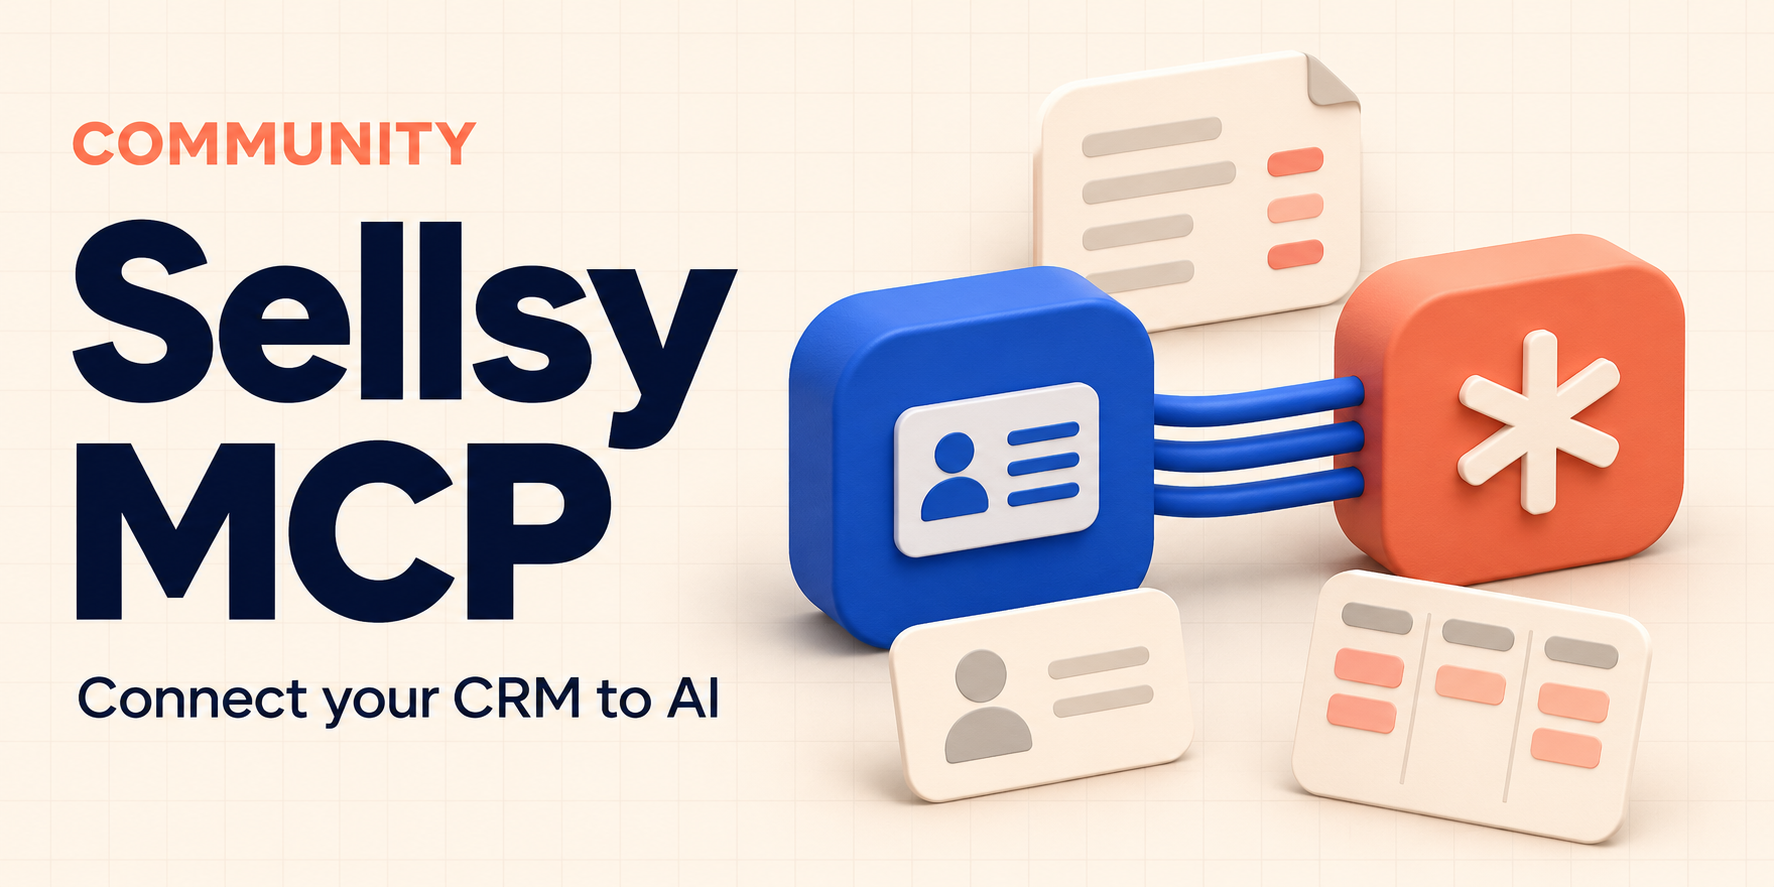
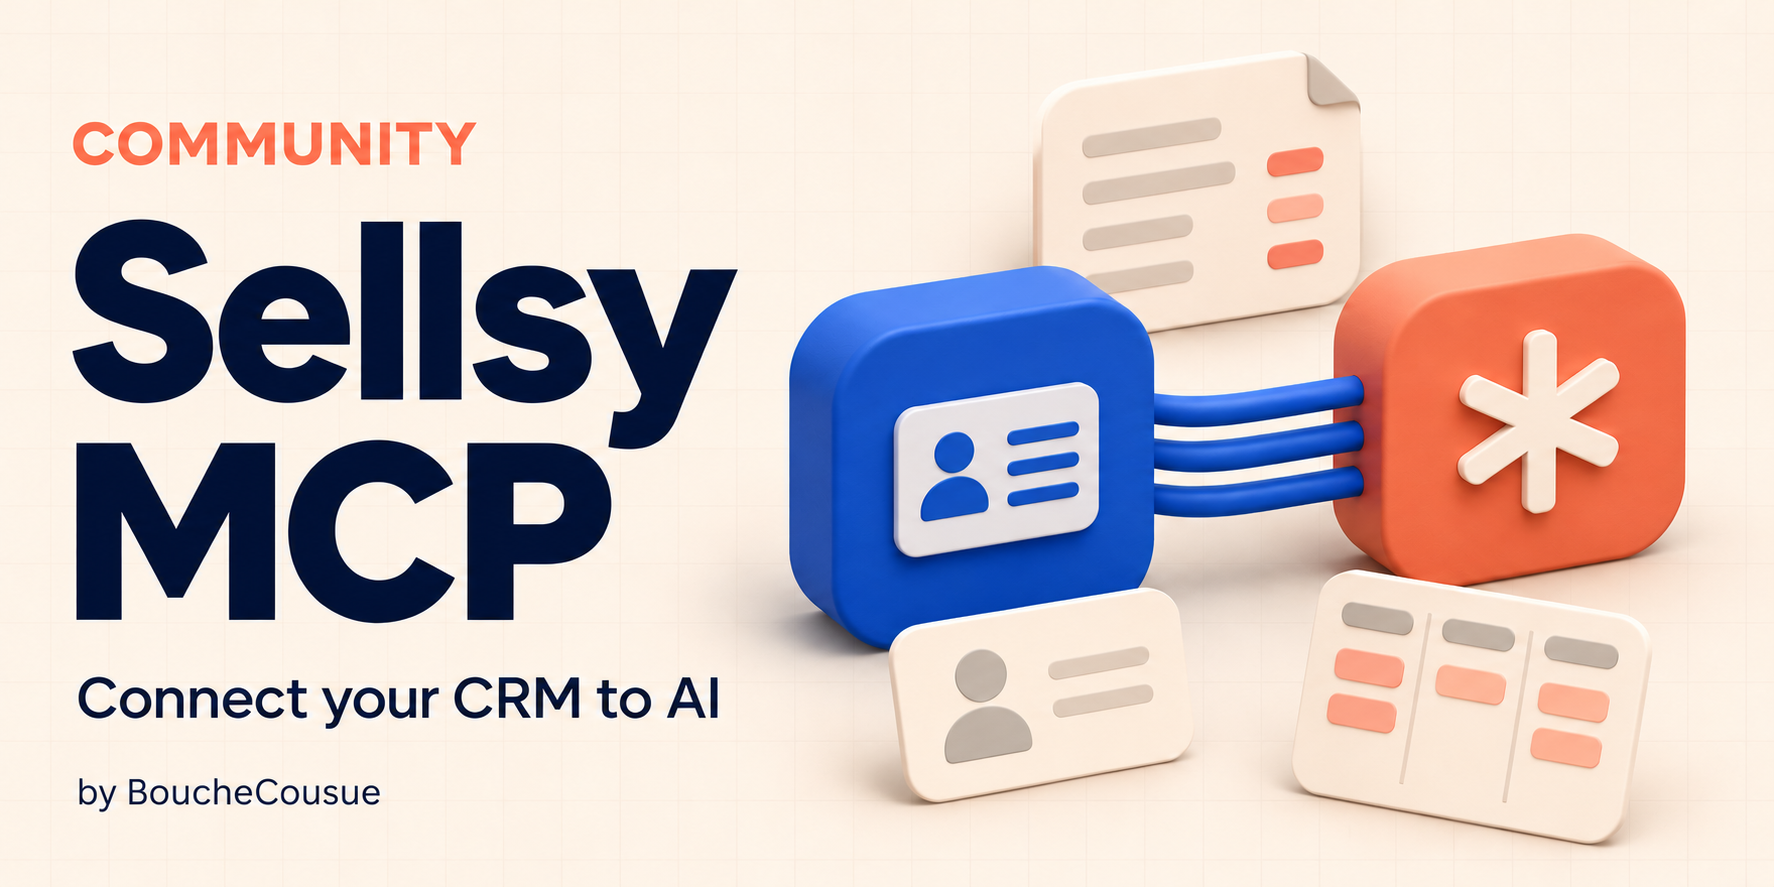
Add Sellsy setup guides and BoucheCousue illustration credit

diff --git a/docs/configuration.fr.md b/docs/configuration.fr.md
@@ -1,0 +1,146 @@
+# Configurer Sellsy et connecter le MCP
+
+Ce guide concerne une instance hébergée pour votre propre entreprise. Chaque
+collaborateur se connecte avec son compte Sellsy et conserve ses droits.
+[English guide](configuration.md).
+
+## 1. Préparer les trois URL
+
+Choisissez le domaine HTTPS de votre serveur, par exemple `mcp.example.com`.
+
+| Usage | Exemple à adapter |
+|---|---|
+| Origine publique dans `.env` | `SELLSY_MCP_PUBLIC_BASE_URL=https://mcp.example.com` |
+| URL de redirection à enregistrer dans Sellsy | `https://mcp.example.com/oauth/callback` |
+| URL MCP à ajouter dans votre assistant IA | `https://mcp.example.com/mcp` |
+
+L'URL de redirection Sellsy pointe vers votre serveur MCP. Elle est distincte
+du callback de ChatGPT ou de votre autre client IA, géré par le parcours OAuth
+MCP. Votre proxy ou tunnel doit transmettre tout le domaine, y compris les
+routes OAuth et `/.well-known/` : voir le [guide de déploiement](deployment.md).
+
+## 2. Créer l'accès API dans Sellsy
+
+1. Ouvrez votre compte Sellsy avec les droits de gestion des accès API.
+2. Allez dans **Réglages → Portail Développeur → API v2**. Le
+   [portail API v2](https://www.sellsy.fr/developer/api-v2) est aussi accessible
+   directement après connexion.
+3. Créez un accès avec un nom reconnaissable, par exemple `MCP — Mon entreprise`,
+   et choisissez le type **Privé** : c'est le parcours prévu par ce serveur.
+4. Renseignez votre URL complète `https://mcp.example.com/oauth/callback` dans
+   le champ de redirection, en remplaçant le domaine. Sélectionnez les droits
+   ci-dessous puis enregistrez.
+5. Copiez le **Client ID** et le **Client Secret** dans votre `.env` privé.
+   Conservez le secret dans votre coffre de mots de passe dès son affichage.
+
+Le type **Personnel** correspond à un accès serveur à serveur ; ce MCP utilise
+le type **Privé** pour connecter les collaborateurs. Le type **Public** est
+soumis à la validation Sellsy pour une application ouverte à d'autres comptes.
+Voir les [types d'accès expliqués par Sellsy](https://help.sellsy.com/fr/articles/5876615-types-d-acces-api).
+
+Le code du MCP gère le flux authorization code, PKCE et le renouvellement des
+jetons. Vous n'avez pas à fabriquer un bearer token ni à utiliser Postman pour
+l'installation. Référence : [authentification API officielle](https://docs.sellsy.com/api/v2/#section/Authentication).
+
+## 3. Cocher les autorisations Sellsy
+
+Pour disposer de toutes les fonctions de lecture prévues par le dépôt,
+sélectionnez les scopes suivants. Une sélection réduite limite les outils
+utilisables ; `staffs.read` permet d'identifier le collaborateur connecté.
+
+| Fonction | Scopes de lecture |
+|---|---|
+| Identité | `staffs.read` |
+| Sociétés et contacts | `companies.read`, `contacts.read` |
+| Catalogue | `items.read` |
+| Devis et factures | `estimates.read`, `invoices.read` |
+| Avoirs, commandes et livraisons | `credit-notes.read`, `orders.read`, `deliveries.read` |
+| Opportunités | `opportunities.read` |
+| Abonnements | `subscriptions.read` |
+| Commentaires, fichiers et paiements | `comments.read`, `files.read`, `payments.read` |
+| Recherche textuelle native | `search.read` |
+| Taxes et métadonnées liées | `taxes.read`, `custom-fields.read`, `smart-tags.read` |
+
+Les seules écritures optionnelles de cette intégration sont `estimates.write`
+pour les devis et `opportunities.write` pour les opportunités. N'ajoutez pas
+d'autres scopes d'écriture ni l'accès à l'API v1 pour ce MCP. Les droits et les
+restrictions de licence du collaborateur continuent de s'appliquer.
+
+La variable `SELLSY_MCP_SELLSY_SCOPES` définit les scopes que le serveur peut
+demander : alignez-la avec votre sélection. Le fichier `.env.example` contient
+les lectures et ces deux écritures optionnelles. Tant que
+`SELLSY_MCP_ENABLE_WRITES=false`, les nouvelles autorisations MCP ne demandent
+que la lecture à Sellsy.
+
+## 4. Renseigner le serveur
+
+Depuis la racine du dépôt :
+
+```sh
+cp .env.example .env
+chmod 600 .env
+```
+
+Éditez les valeurs suivantes en conservant les autres réglages de l'exemple :
+
+```dotenv
+SELLSY_CLIENT_ID=VOTRE-CLIENT-ID-SELLSY
+SELLSY_CLIENT_SECRET=VOTRE-CLIENT-SECRET-SELLSY
+SELLSY_MCP_PUBLIC_BASE_URL=https://mcp.example.com
+SELLSY_MCP_ENABLE_WRITES=false
+```
+
+Le Client ID doit être l'UUID seul, sans le libellé « Client ID : ». Pour le
+secret aussi, copiez uniquement la valeur, sans préfixe ni espaces ajoutés.
+Gardez `.env` hors Git et ne transmettez pas ces valeurs dans une conversation
+IA. Il n'y a pas d'identifiant partagé fourni par le projet.
+
+Installez les dépendances avec `uv sync --frozen --no-dev`, puis démarrez avec
+`uv run --frozen --no-dev sellsy-mcp`, ou suivez le
+[déploiement Docker/systemd](deployment.md). Redémarrez le service après un
+changement de configuration.
+
+## 5. Connecter chaque collaborateur
+
+Dans un client MCP distant compatible Streamable HTTP et OAuth, ajoutez votre
+URL `https://mcp.example.com/mcp`. Terminez la connexion dans le navigateur,
+avec le compte Sellsy du collaborateur, puis acceptez les droits demandés.
+
+Depuis cette même connexion, appelez `sellsy_get_capabilities` : vérifiez le
+compte identifié, `upstream: reachable` et l'absence de scopes manquants
+inattendus dans `missing_scopes`. Essayez ensuite une lecture, par exemple la
+recherche d'une société connue. `/health/ready` vérifie le serveur et son
+stockage ; ce seul résultat ne prouve pas que l'accès Sellsy fonctionne.
+
+## 6. Activer les écritures si nécessaire
+
+Trois conditions doivent être réunies :
+
+1. Dans Sellsy, l'accès autorise `estimates.write` et/ou `opportunities.write`.
+2. Le serveur les inclut dans `SELLSY_MCP_SELLSY_SCOPES`, avec
+   `SELLSY_MCP_ENABLE_WRITES=true`, puis a été redémarré.
+3. Le collaborateur renouvelle son consentement ; sa session MCP demande
+   `sellsy.write`, en plus de `sellsy.read` et `offline_access` pour le
+   renouvellement des jetons MCP.
+
+Modifier `.env` ou les cases dans Sellsy ne met pas à jour les droits d'une
+connexion déjà ouverte. Reconnectez le client et contrôlez les droits effectifs.
+L'option globale `writes_enabled` ne prouve pas à elle seule que la session
+peut écrire. La procédure reste : préparer, relire le diff, approuver
+explicitement, appliquer, puis vérifier la relecture. Voir aussi les
+[deux couches de permissions](configuration.md#two-independent-permission-layers).
+
+## Dépannage
+
+| Symptôme | À vérifier |
+|---|---|
+| Client ID invalide ou `Client authentication failed` | Accès API v2 privé, UUID seul, valeur du secret sans libellé, redémarrage après modification de `.env` |
+| Erreur de redirection | Domaine HTTPS exact, chemin `/oauth/callback`, absence de slash final ajouté, routage du proxy |
+| Identité introuvable | `staffs.read` accordé et compte collaborateur actif |
+| Scope manquant ou HTTP 403 | Scopes sélectionnés dans Sellsy, consentement actuel, droits du collaborateur et licence |
+| Lecture possible mais écriture refusée | Interrupteur serveur, scope MCP `sellsy.write`, scope Sellsy de l'objet et nouveau consentement |
+| `/mcp` renvoie 401 sans connexion | Comportement attendu ; passer par la connexion OAuth du client |
+
+N'élargissez pas les droits en modifiant la base des jetons. Le guide de
+[configuration et administration](configuration.md) décrit le renouvellement
+ciblé d'un consentement existant.

diff --git a/docs/configuration.md b/docs/configuration.md
@@ -1,5 +1,7 @@
 # Configuration and OAuth
 
+[Guide pas à pas en français](configuration.fr.md).
+
 Copy `.env.example` to `.env`. Keep the real file private (mode 0600). Settings
 are loaded from `.env` and environment variables. Generic defaults use loopback
 and relative `var/` paths; remote use requires an explicit HTTPS public origin.
@@ -23,15 +25,115 @@ Sellsy HTTPS hosts by default, validate each redirect, and use a timed PDF worke
 
 ## Create the Sellsy client
 
-Use a **Private** client for staff in your own Sellsy organization, authorization
-code flow with PKCE and refresh tokens. Register the exact callback:
-`PUBLIC_BASE_URL/oauth/callback`. The example scopes describe the implemented
-tools. `staffs.read` is needed to resolve the signed-in staff identity.
-Scopes do not replace the staff member's Sellsy ACLs or plan restrictions.
+### 1. Choose your public URL
+
+For example, deploy this server at `https://mcp.example.com`. Use these values
+consistently:
+
+| Where | Value for this example |
+|---|---|
+| Server setting `SELLSY_MCP_PUBLIC_BASE_URL` | `https://mcp.example.com` |
+| Redirect URL registered in Sellsy | `https://mcp.example.com/oauth/callback` |
+| Remote MCP URL entered in your AI client | `https://mcp.example.com/mcp` |
+
+The Sellsy callback belongs to **your MCP server**. The AI client's callback is
+a separate URL registered through MCP OAuth; do not paste it into the Sellsy
+redirect field. Forward the whole HTTPS origin as described in
+[deployment](deployment.md), including discovery and OAuth routes.
+
+### 2. Register an API v2 access in Sellsy
+
+1. Sign in to your own Sellsy organization with permission to manage API access.
+2. Open **Réglages → Portail Développeur → API v2**, or the
+   [API v2 developer page](https://www.sellsy.fr/developer/api-v2).
+3. Create an access, give it a recognizable name such as `MCP — My organization`,
+   and select **Privé / Private**. This server signs each staff member in using
+   authorization code with PKCE; a **Personnel / Personal** client using client
+   credentials is a different flow.
+4. Set the redirect URL to your exact `https://mcp.example.com/oauth/callback`,
+   replacing the hostname with your own. Save the access with the scopes below.
+5. Copy the generated **Client ID** and **Client Secret** into your private `.env`.
+   Save the secret in your password manager when it is shown.
+
+The navigation, client types and credential handling are documented in
+[Sellsy's API access guide](https://help.sellsy.com/fr/articles/5876615-types-d-acces-api).
+The server implements PKCE and token refresh automatically, following the
+[official authentication reference](https://docs.sellsy.com/api/v2/#section/Authentication).
+You do not need to generate a bearer token manually or configure Postman.
 
 A shared integration for unrelated Sellsy accounts requires a **Public** client
 and Sellsy validation. See the [official API documentation](https://docs.sellsy.com/api/v2/).
 This project does not provide a shared client ID, secret or public hosted service.
+
+### 3. Select the object scopes
+
+For the full read toolset, select the following scopes in the Sellsy access.
+They correspond to this repository's `.env.example`; a smaller selection limits
+which tools can work. `staffs.read` is needed to resolve the signed-in identity.
+
+| Tool area | Sellsy read scopes |
+|---|---|
+| Signed-in staff | `staffs.read` |
+| Customers and contacts | `companies.read`, `contacts.read` |
+| Catalog | `items.read` |
+| Estimates and invoices | `estimates.read`, `invoices.read` |
+| Credit notes, orders and deliveries | `credit-notes.read`, `orders.read`, `deliveries.read` |
+| Opportunities | `opportunities.read` |
+| Subscriptions | `subscriptions.read` |
+| Comments, files and payments | `comments.read`, `files.read`, `payments.read` |
+| Native text search | `search.read` |
+| Taxes and linked metadata | `taxes.read`, `custom-fields.read`, `smart-tags.read` |
+
+For optional writes, add `estimates.write` for estimates and/or
+`opportunities.write` for opportunities. Match `SELLSY_MCP_SELLSY_SCOPES` to
+the scope selection you want this server to request. Do not select unrelated
+write scopes or API v1 access for this integration. Staff ACLs and plan
+restrictions still apply even when a scope is granted.
+
+`.env.example` contains the read scopes and the two optional write scopes.
+With `SELLSY_MCP_ENABLE_WRITES=false`, new MCP authorizations request only read
+scopes from Sellsy. Enabling writes also requires a client authorization requesting
+`sellsy.write`, as explained below.
+
+### 4. Configure and start your instance
+
+```sh
+cp .env.example .env
+chmod 600 .env
+# Edit .env before starting the service.
+```
+
+Set these entries, keeping the other settings from the example:
+
+```dotenv
+SELLSY_CLIENT_ID=YOUR-SELLSY-CLIENT-ID
+SELLSY_CLIENT_SECRET=YOUR-SELLSY-CLIENT-SECRET
+SELLSY_MCP_PUBLIC_BASE_URL=https://mcp.example.com
+SELLSY_MCP_ENABLE_WRITES=false
+```
+
+The Client ID must be the plain UUID, without a `Client ID:` label. Paste only
+the secret value into `SELLSY_CLIENT_SECRET`, without a field label or surrounding
+spaces. Do not put either value into the MCP URL or the AI chat. Start the server
+with `uv run --frozen --no-dev sellsy-mcp` or the Docker/systemd instructions in
+[deployment](deployment.md).
+
+### 5. Connect a user and verify access
+
+1. In a remote MCP client supporting Streamable HTTP and OAuth, add your
+   `https://mcp.example.com/mcp` URL.
+2. Complete the browser sign-in and Sellsy consent using the intended staff
+   account. Each collaborator signs in separately.
+3. Call `sellsy_get_capabilities` from that same connected client. Confirm the
+   expected identity, `upstream: reachable` and no unexpected `missing_scopes`.
+4. Try a read, such as searching for a known company. A green `/health/ready`
+   response alone does not validate Sellsy credentials or user permissions.
+
+After changing scopes in Sellsy, reconnect and consent again; an existing grant
+does not acquire the new permissions automatically. To enable writes, also set
+`SELLSY_MCP_ENABLE_WRITES=true`, restart, request MCP scope `sellsy.write` and
+check both permission layers below. A write still requires the separate
+prepare, review, approval and apply workflow.
 
 ## Two independent permission layers
 
@@ -54,6 +156,15 @@ Sellsy permission only, not the MCP client's session scopes. Never edit token
 tables to repair a connection.
 
 ## Client troubleshooting
+
+| Symptom | Check |
+|---|---|
+| Invalid client ID or `Client authentication failed` | Correct API v2 Private access, plain UUID, secret value without a copied label; restart after changing `.env` |
+| Redirect mismatch or failed callback | Exact public hostname, HTTPS, `/oauth/callback`, no extra trailing slash; proxy forwards this route |
+| Missing staff identity | `staffs.read` selected and granted; sign in as an active staff member |
+| Missing scope / HTTP 403 | The Sellsy access's scope selection, current consent, staff ACLs and plan; changing `.env` alone is insufficient |
+| Reads work but writes do not | Operator switch, MCP `sellsy.write`, Sellsy object write scope and fresh consent are all needed |
+| Anonymous `/mcp` returns 401 | Expected; connect through the client's OAuth sign-in |
 
 Check `sellsy_get_capabilities` after connection. `writes_enabled` is the global
 operator switch, not proof that the current MCP token or Sellsy grant can write.

diff --git a/README.md b/README.md
@@ -30,6 +30,9 @@ public multi-organization hosting service.
 Requirements: Python 3.11+ and [uv](https://docs.astral.sh/uv/). Create your own
 Sellsy **Private** OAuth application with authorization-code flow, PKCE, refresh
 tokens, the scopes listed in `.env.example` and your exact callback URL.
+Follow the [Sellsy setup walkthrough](docs/configuration.md#create-the-sellsy-client)
+or the [guide pas à pas en français](docs/configuration.fr.md) for the developer
+portal, scope selection and first connection.
 
 The server uses the official **MCP Python SDK 2.3+** (`MCPServer`). See the
 [SDK v2 migration notes](docs/sdk-v2.md) when upgrading an existing instance.
@@ -92,6 +95,7 @@ is an API contract, not an independent human-approval interface or sandbox.
 
 - [Tool catalog](docs/tools.md)
 - [Configuration and OAuth troubleshooting](docs/configuration.md)
+- [Configuration de Sellsy et connexion du MCP (français)](docs/configuration.fr.md)
 - [Deployment and administration](docs/deployment.md)
 - [Security model and limitations](docs/security-model.md)
 - [Contributing and tests](CONTRIBUTING.md)

diff --git a/assets/README.md b/assets/README.md
@@ -1,10 +1,12 @@
 # Repository illustration
 
-- `sellsy-mcp-illustration.png`: original generated artwork, 1774 × 887 pixels.
+- `sellsy-mcp-illustration.png`: generated artwork with the "by BoucheCousue"
+  author credit, 1774 × 887 pixels.
 - `social-preview.jpg`: lightweight JPEG export of the same artwork for the README
   and GitHub repository social preview, 1774 × 887 pixels, 2:1 aspect ratio.
-- `illustration-prompt.txt`: full prompt used with the built-in image generation
-  tool on 5 November 2026. The illustration was visually reviewed for spelling,
+- `illustration-prompt.txt` and `illustration-credit-prompt.txt`: creation and
+  credit-edit prompts used with the built-in image generation tool on
+  5 November 2026. The illustration was visually reviewed for spelling,
   composition and the absence of customer data or official brand logos.
 
 The image represents a community connector between CRM records and AI clients.

diff --git a/docs/fr.md b/docs/fr.md
@@ -18,3 +18,8 @@ Les descriptions d'outils et la plupart des messages sont en français.
 Consulter le [guide de démarrage](../README.md), la [configuration](configuration.md),
 le [déploiement](deployment.md) et les [limites de sécurité](security-model.md).
 Les tests fonctionnent sans identifiants et sans appel à un compte Sellsy réel.
+
+Pour installer votre instance, suivez le
+[guide de configuration de Sellsy en français](configuration.fr.md) : création
+de l'accès API privé, URL de redirection, scopes à cocher, fichier `.env`,
+connexion des collaborateurs et activation optionnelle des écritures.

diff --git a/docs/deployment.md b/docs/deployment.md
@@ -1,5 +1,9 @@
 # Deployment and administration
 
+First complete [Sellsy API access setup](configuration.md#create-the-sellsy-client)
+([français](configuration.fr.md)): create your Private client, register the
+callback and copy your credentials into `.env`.
+
 Use one instance and one persistent state directory per organization. Supply
 your own Sellsy client and HTTPS origin. Keep the process behind a TLS reverse
 proxy or tunnel forwarding the whole origin, including `/mcp`, `/authorize`,
